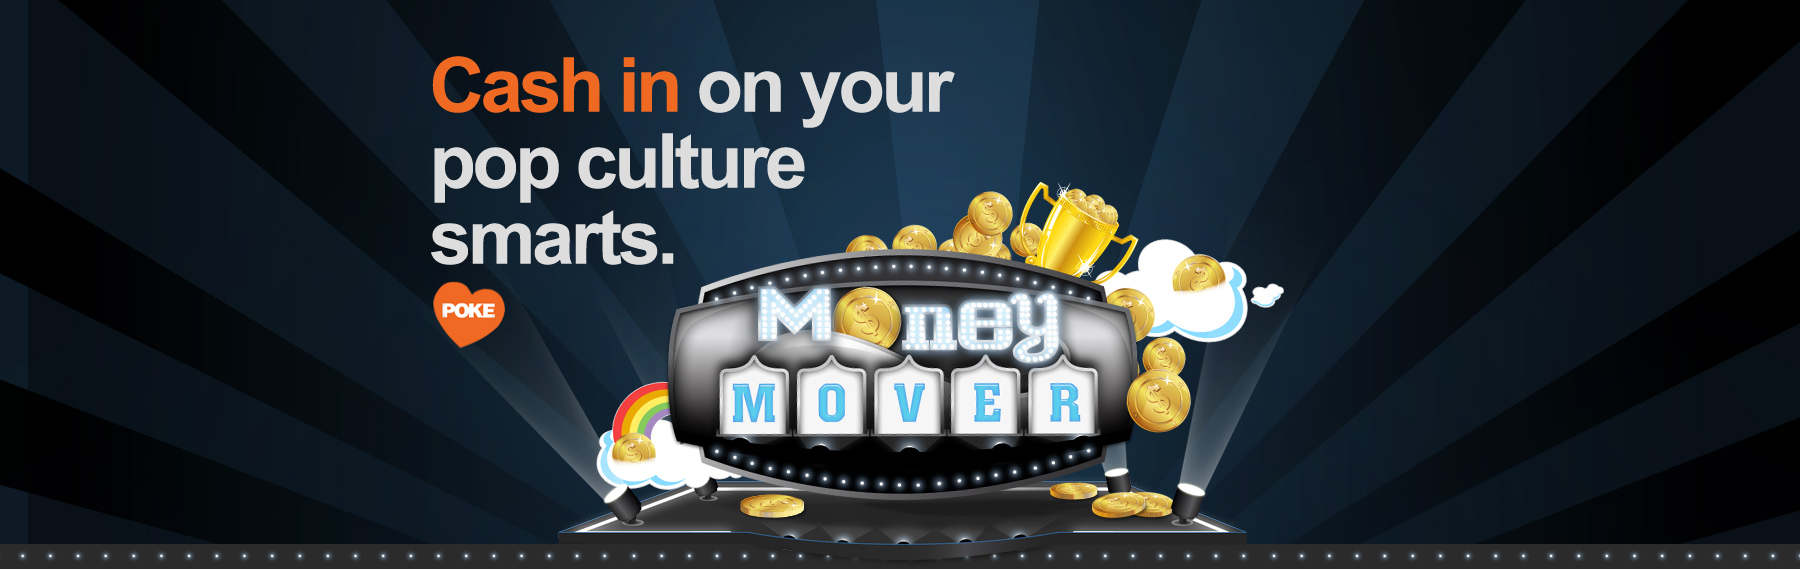
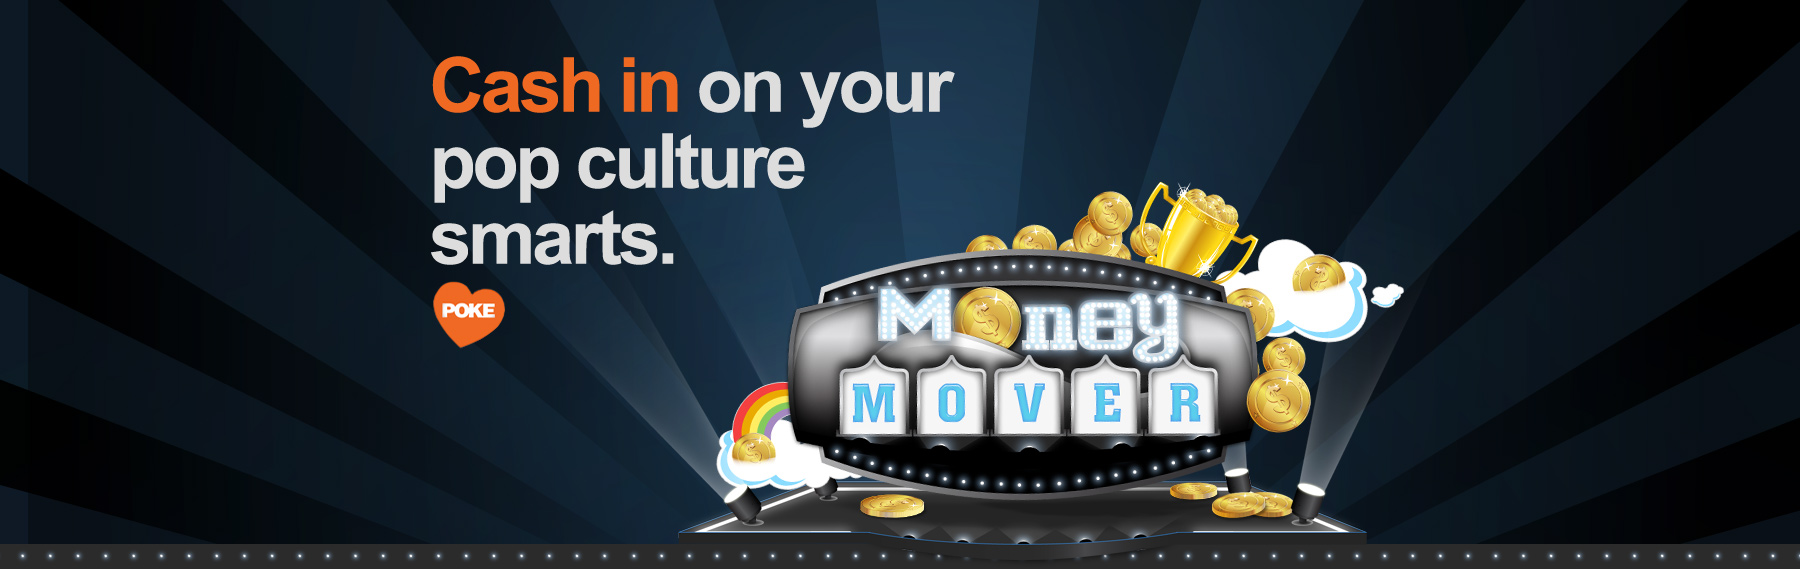
mainImage.jpg - Uncentered shitz

Changed region(s): [[0.28, 0.3286, 0.7778, 0.9859]]

diff --git a/template/index_video.html b/template/index_video.html
@@ -1,0 +1,290 @@
+<!DOCTYPE html>
+<!--[if lt IE 7 ]><html class="ie ie6" lang="en"> <![endif]-->
+<!--[if IE 7 ]><html class="ie ie7" lang="en"> <![endif]-->
+<!--[if IE 8 ]><html class="ie ie8" lang="en"> <![endif]-->
+<!--[if (gte IE 9)|!(IE)]><!--><html lang="en"> <!--<![endif]-->
+<head>
+
+	<meta charset="utf-8">
+	<title>POKE New York - Project title!</title>
+	<meta name="description" content="">
+	<meta name="author" content="POKE New York">
+	<!--[if lt IE 9]>
+		<script src="http://html5shim.googlecode.com/svn/trunk/html5.js"></script>
+	<![endif]-->
+
+	<meta name="viewport" content="width=device-width, initial-scale=1, maximum-scale=1">
+
+	<link rel="stylesheet" href="../css/reset.css">
+	<link rel="stylesheet" href="../css/skeleton.css">
+	<link rel="stylesheet" href="../css/love.css">
+
+	<style>
+
+		#mainImageClientSK {
+			background: #fff url('../clientname/images/mainImage.png') top center;
+			background-repeat: no-repeat;
+			width: 100%;
+			height: 541px;
+		}
+
+	    @media only screen and (min-width: 768px) and (max-width: 959px) {
+	    	
+			#mainImageClientSK {
+				background: #fff url('../clientname/images/mainImage2.jpg') top center;
+				background-repeat: no-repeat;
+				width: 100%;
+				height: 430px;
+			}  
+	    }
+	   
+		@media only screen and (max-width: 767px) {
+			
+			#mainImageClientSK {
+				background: #fff url('../clientname/images/mainImage4.jpg') top center;
+				background-repeat: no-repeat;
+				width: 100%;
+				height: 180px;
+			}
+		}
+
+		@media only screen and (min-width: 480px) and (max-width: 767px) {
+			#mainImageClientSK {
+				background: #fff url('../clientname/images/mainImage3.jpg') top center;
+				background-repeat: no-repeat;
+				width: 100%;
+				height: 270px;
+			}
+		}
+
+	</style>
+
+
+	<!-- Javascript
+	=================================================== -->
+  
+  	<script type="text/javascript" src="http://ajax.googleapis.com/ajax/libs/jquery/1.4/jquery.min.js"></script>
+	<script>
+		!window.jQuery && document.write('<script src="js/jquery-1.4.3.min.js"><\/script>');
+	</script>
+	<script type="text/javascript" src="../fancybox/jquery.fancybox-1.3.4.pack.js"></script>
+	<link rel="stylesheet" type="text/css" href="../fancybox/jquery.fancybox-1.3.4.css" media="screen" />
+
+ 	<script type="text/javascript">
+	$(document).ready(function() {
+		
+		//disable fancybox on mobile
+		if(navigator.userAgent.match(/(iPad)|(iPhone)|(iPod)|(android)|(webOS)/i)) { 
+			console.log($('a[rel=gallery]'));
+			$('a[rel=gallery]').removeAttr('rel');
+		}
+	 
+		//jQuery calls for Fancybox
+			
+		$("#video").click(function() {
+			$.fancybox({
+				'padding'		: 0,
+				'overlayColor'  : '#000000',
+	            'opacity'		: '0.5',
+				'autoScale'		: false,
+				'transitionIn'	: 'none',
+				'transitionOut'	: 'none',
+				'title'			: this.title,
+				'width'			: 780,
+				'height'		: 497,
+				'href'			: this.href.replace(new RegExp("([0-9])","i"),'moogaloop.swf?clip_id=$1'),
+				'type'			: 'swf'
+			});
+			
+				return false;
+		});
+		
+		$("a[rel=gallery]").fancybox({
+			'overlayColor'  : '#000000',
+            'opacity'		: '0.5',
+			'transitionIn'		: 'none',
+			'transitionOut'		: 'none',
+			'titlePosition' 	: 'over',
+			'titleFormat'       : function(title, currentArray, currentIndex, currentOpts) {
+		    return '<span id="fancybox-title-over">Image ' +  (currentIndex + 1) + ' / ' + currentArray.length + ' ' + title + '</span>';
+			}
+		});
+		
+		$(".gallery").hover(function(){ $('.largeFrameOverlaySK', this).fadeIn('fast');  },function(){ $('.largeFrameOverlaySK', this).fadeOut('fast'); })
+		
+		$(function() {
+
+	        // Find all YouTube videos
+	        var $allVideos = $("iframe[src^='http://player.vimeo.com']"),
+
+	            // The element that is fluid width
+	            $fluidEl = $("#fluidVideo");
+
+	        // Figure out and save aspect ratio for each video
+	        $allVideos.each(function() {
+
+	                $(this)
+	                        .data('aspectRatio', this.height / this.width)
+
+	                        // and remove the hard coded width/height
+	                        .removeAttr('height')
+	                        .removeAttr('width');
+
+	        });
+
+	        // When the window is resized
+	        // (You'll probably want to debounce this)
+	        $(window).resize(function() {
+
+	                var newWidth = $fluidEl.width();
+
+	                // Resize all videos according to their own aspect ratio
+	                $allVideos.each(function() {
+
+	                        var $el = $(this);
+	                        $el
+	                                .width(newWidth)
+	                                .height(newWidth * $el.data('aspectRatio'));
+
+	                });
+
+	        // Kick off one resize to fix all videos on page load
+	        }).resize();
+
+		});
+	});
+
+	</script>
+
+</head>
+
+<!-- script in body hides address bar on page load on iPhone -->
+<body onload="setTimeout(function() { window.scrollTo(0, 1) }, 100);">
+
+	<header>
+		<div id="mainImageClientSK">
+			<div id="topLinkSK"><a href="#" target="_blank">See it live ></a></div>
+		</div>
+	</header>
+
+  <div id="container" class="container">
+  <div class="sixteen columns">
+	<div class="sixteen columns alpha omega"><div id="titleSK"><h1>About ProjectName</h1></div></div>
+	  	
+		<div class="two-thirds column alpha">
+			<div class="bigBorderSK content" id="fluidVideo">
+				<iframe src="http://player.vimeo.com/video/31806440?byline=0&amp;portrait=0&amp;color=ea531c" width="592" height="377" frameborder="0" class="bigBordered vimeoSK"></iframe>
+			</div>
+					
+			<div class="one-third column alpha">
+				<div class="frameLargeSK gallery">
+					<img src="images/medium/contentImageLeft.jpg" alt="contentImageLeft" class="framedLarge imageSK"/>
+					<a rel="gallery" title="ProjectName" href="images/large/gallery1.jpg"><img class="largeFrameOverlaySK" src="../images/overlayLargeSK.png"></a>	
+				</div>
+			</div>
+		
+			<div class="one-third column omega">
+				<div class="frameLargeSK gallery">
+					<img src="images//medium/contentImageMiddle.jpg" alt="contentImageMiddle" class="framedLarge imageSK" />
+					<a rel="gallery" title="ProjectName" href="images/large/gallery2.jpg"><img class="largeFrameOverlaySK" src="../images/overlayLargeSK.png"></a>
+				</div>
+			</div>
+		</div>
+		
+		<div class="one-third column omega">
+			<div class="frameLargeSK gallery">
+				<img src="images//medium/contentImageRight.jpg" alt="contentImageRight" class="framedLarge imageSK" />
+				<a rel="gallery" title="ProjectName" href="images/large/gallery3.jpg"><img class="largeFrameOverlaySK" src="../images/overlayLargeSK.png"></a>
+			</div>
+
+			<p class="tucked"><br /><strong>Title</strong><br />Description.
+			</p>
+
+			<p class="tucked"><strong>Title</strong><br />Description.
+			</p>
+			
+			<p class="tucked"><strong>Title</strong><br />Description.
+			</p>
+
+		</div>	   
+				 
+    	<div class="sixteen columns alpha omega"><img src="../images/divider.png" alt="divider" class="dividerSK" /></div> 
+		
+		<div id="keyPress" class="two-thirds column alpha">
+			<h3>Key Press</h3>
+			
+			<div class="press two-thirds column alpha firstPress">
+				<div class="three columns alpha">
+					<a href="http://linktopress.com">
+						<img src="images/logo.png" alt="logo" width="140" height="140" />
+					</a></div>
+				<div class="seven columns omega"><span class="quote">Quote</span>&nbsp;&ndash;&nbsp;<a href="linktopress" class="source" target="_blank">SourceName.com</a></div>
+			</div>
+
+			<div class="press two-thirds column alpha firstPress">
+				<div class="three columns alpha">
+					<a href="http://linktopress.com">
+						<img src="images/logo.png" alt="logo" width="140" height="140" />
+					</a></div>
+				<div class="seven columns omega"><span class="quote">Quote</span>&nbsp;&ndash;&nbsp;<a href="linktopress" class="source" target="_blank">SourceName.com</a></div>
+			</div>
+						
+			<div class="press two-thirds column alpha firstPress">
+				<div class="three columns alpha">
+					<a href="http://linktopress.com">
+						<img src="images/logo.png" alt="logo" width="140" height="140" />
+					</a></div>
+				<div class="seven columns omega"><span class="quote">Quote</span>&nbsp;&ndash;&nbsp;<a href="linktopress" class="source" target="_blank">SourceName.com</a></div>
+			</div>
+			
+			<div class="press two-thirds column alpha">
+				<div class="one column offset-by-one omega"><img src="images/profile.png" alt="profile" width="60" height="60" /></div>
+				<div class="seven columns offset-by-one omega"><strong>@UserName</strong><br />Tweet.</div>
+			</div>
+
+			<div class="press two-thirds column alpha">
+				<div class="one column offset-by-one omega"><img src="images/profile.png" alt="profile" width="60" height="60" /></div>
+				<div class="seven columns offset-by-one omega"><strong>@UserName</strong><br />Tweet.</div>
+			</div>
+
+			<div class="press two-thirds column alpha">
+				<div class="one column offset-by-one omega"><img src="images/profile.png" alt="profile" width="60" height="60" /></div>
+				<div class="seven columns offset-by-one omega"><strong>@UserName</strong><br />Tweet.</div>
+			</div>
+			
+		</div> <!-- end #keyPress -->
+		
+		<div id="keyFacts" class="one-third column omega">
+		
+			<h3>Key Facts</h3>
+
+			<p class="hugeAndRaggedSK">
+				Words and <span class="orange">Numbers</span>.
+			</p>
+			
+		</div> <!-- end #keyFacts -->
+					
+    
+    
+    <footer>
+   		<div class="sixteen columns alpha omega"><img src="../images/divider.png" alt="divider" class="dividerSK" /></div>
+		<div class="three columns offset-by-thirteen"><img src="../images/lovePoke.png" alt="lovePoke" width="140" height="90" /></div> 
+    </footer> 
+  </div> <!-- end #main -->   
+  </div> <!--! end of #container --> 
+ 
+<script type="text/javascript"> 
+ 
+  var _gaq = _gaq || [];
+  _gaq.push(['_setAccount', 'UA-1816293-7']);
+  _gaq.push(['_trackPageview']);
+ 
+  (function() {
+    var ga = document.createElement('script'); ga.type = 'text/javascript'; ga.async = true;
+    ga.src = ('https:' == document.location.protocol ? 'https://ssl' : 'http://www') + '.google-analytics.com/ga.js';
+    var s = document.getElementsByTagName('script')[0]; s.parentNode.insertBefore(ga, s);
+  })();
+ 
+</script> 
+</body>
+</html>
